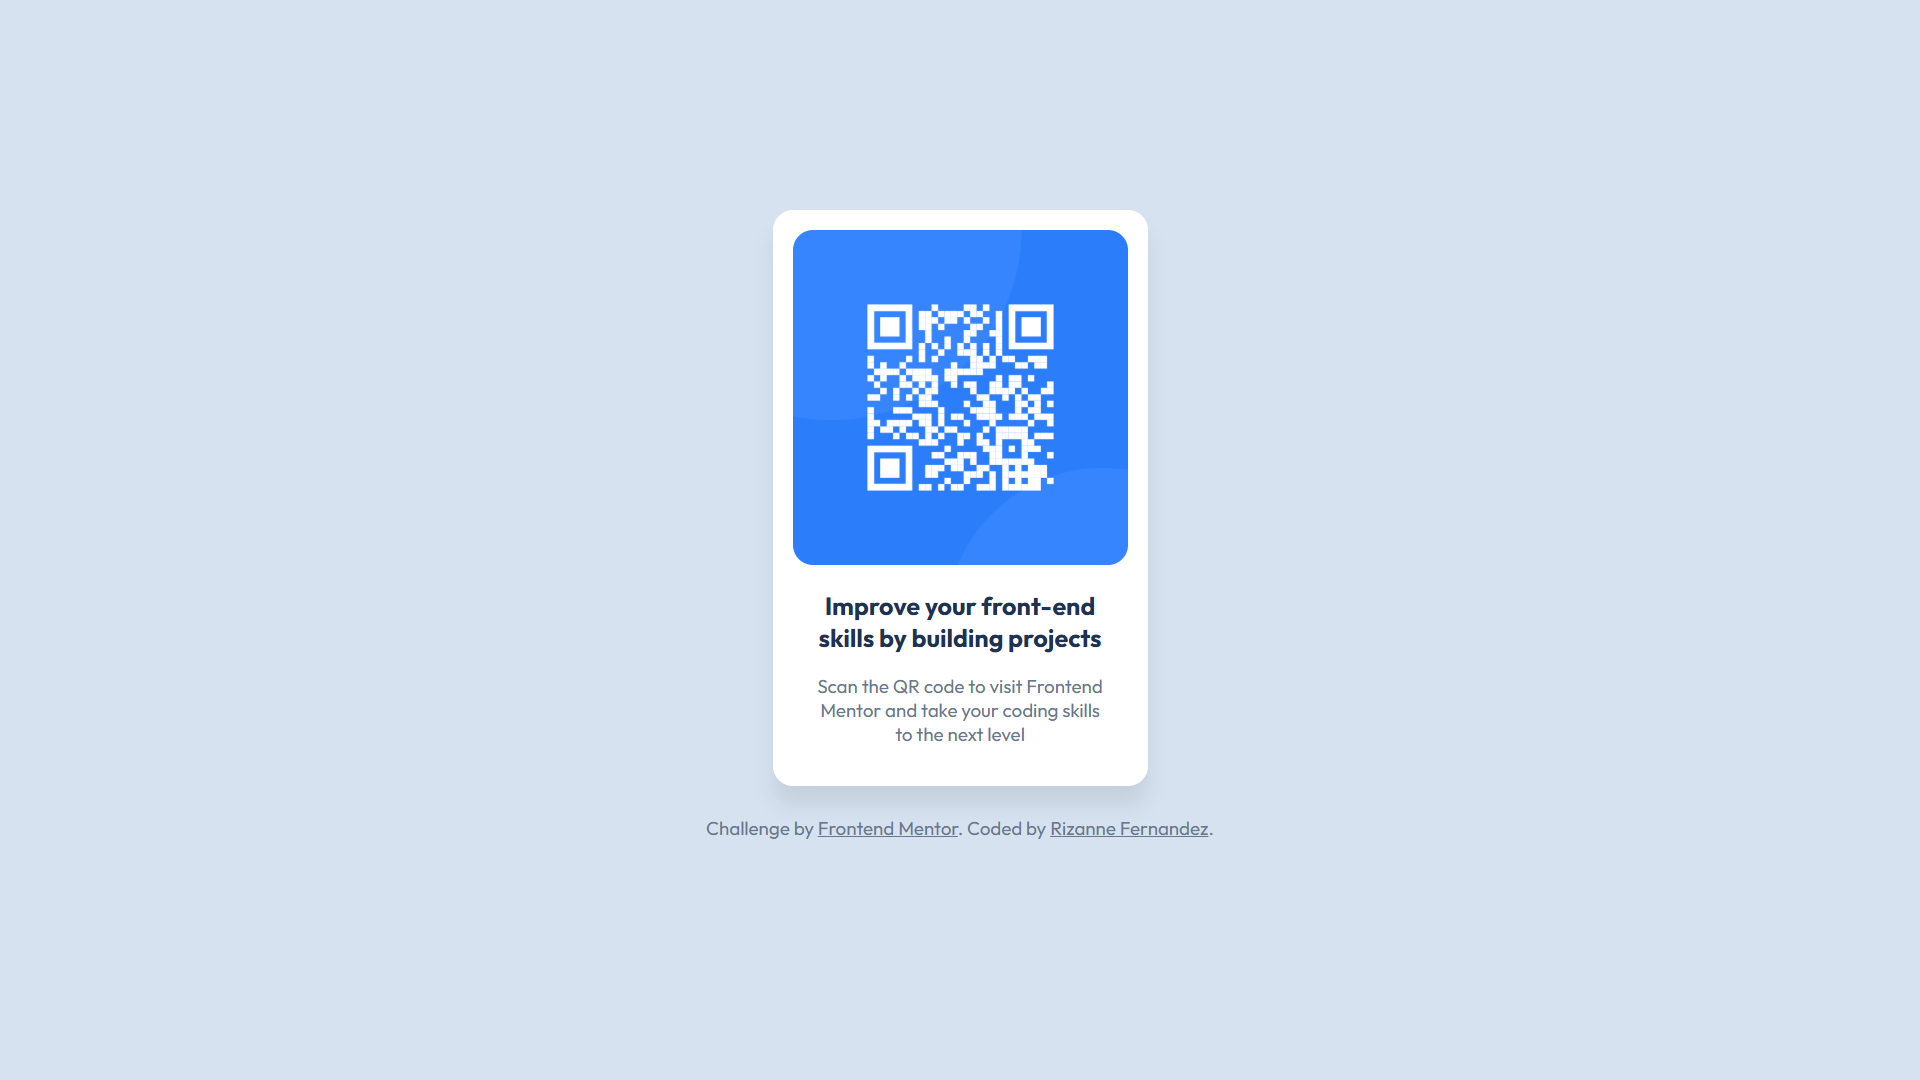
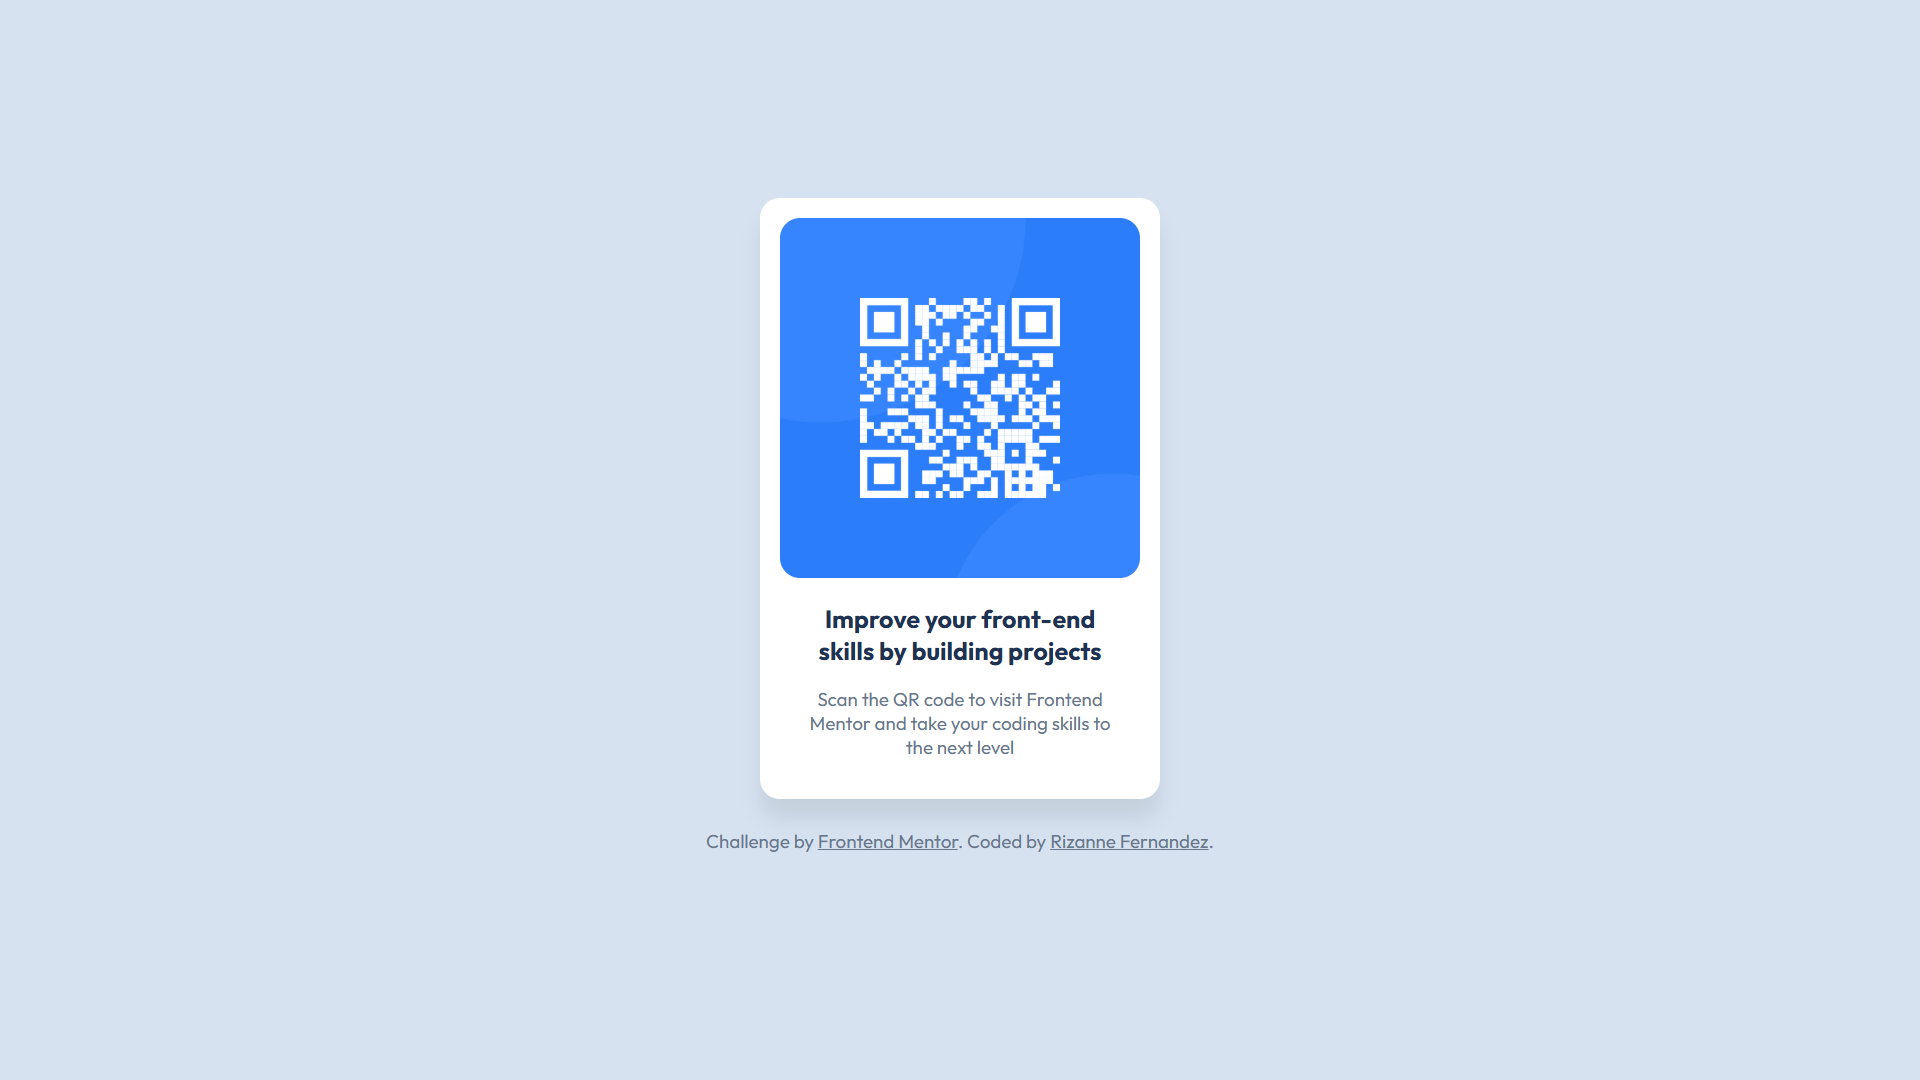
Modify styles to implement best practices on size constraints

Changed region(s): [[0.375, 0.1833, 0.625, 0.7944]]

diff --git a/style.css b/style.css
@@ -21,7 +21,7 @@
 body {
     font-family: "Outfit", sans-serif;
     background-color: var(--Slate-300);
-    height: 100vh;
+    min-height: 100vh;
     padding: var(--space-lg);
     display: grid;
     place-content: center;
@@ -36,7 +36,7 @@ article.card {
 }
 
 @media screen and (min-width: 376px) {
-    article.card { max-width: 300px; }
+    article.card { max-width: 320px; }
 }
 
 article.card img {

diff --git a/README.md b/README.md
@@ -35,12 +35,16 @@ This is a solution to the [QR code component challenge on Frontend Mentor](https
 
 ### What I learned
 
-Using low value opacity in rgba color model to get a soft shadow.
-
+Low value opacity in rgba color model to get a soft shadow.
 ```css
 article.card {
   box-shadow: 0 16px 16px rgba(0, 0, 0, 0.08);
 }
+```
+
+`min-height: 100vh` instead of `height: 100vh` to allow the page to grow when necessary.
+```css
+body { min-height: 100vh; }
 ```
 
 ## Author
